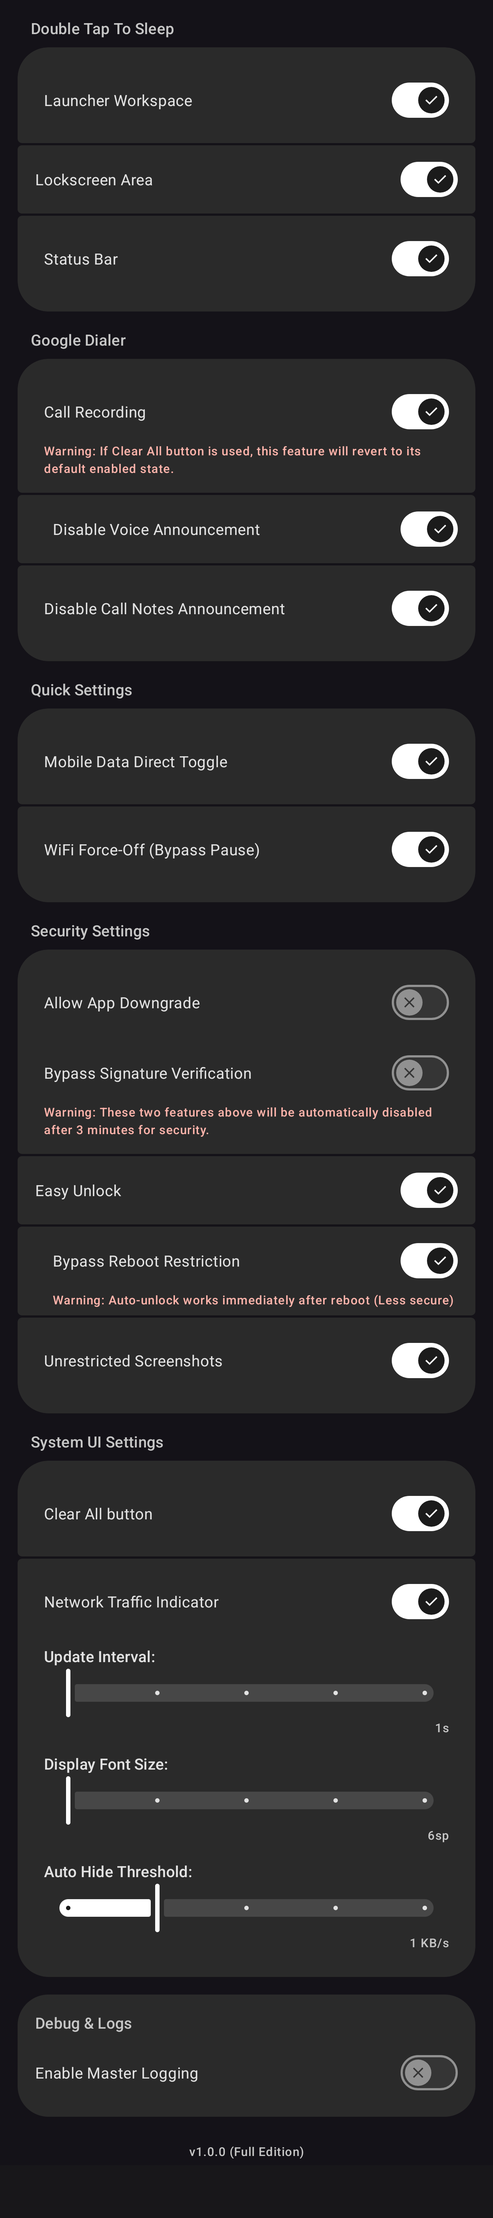
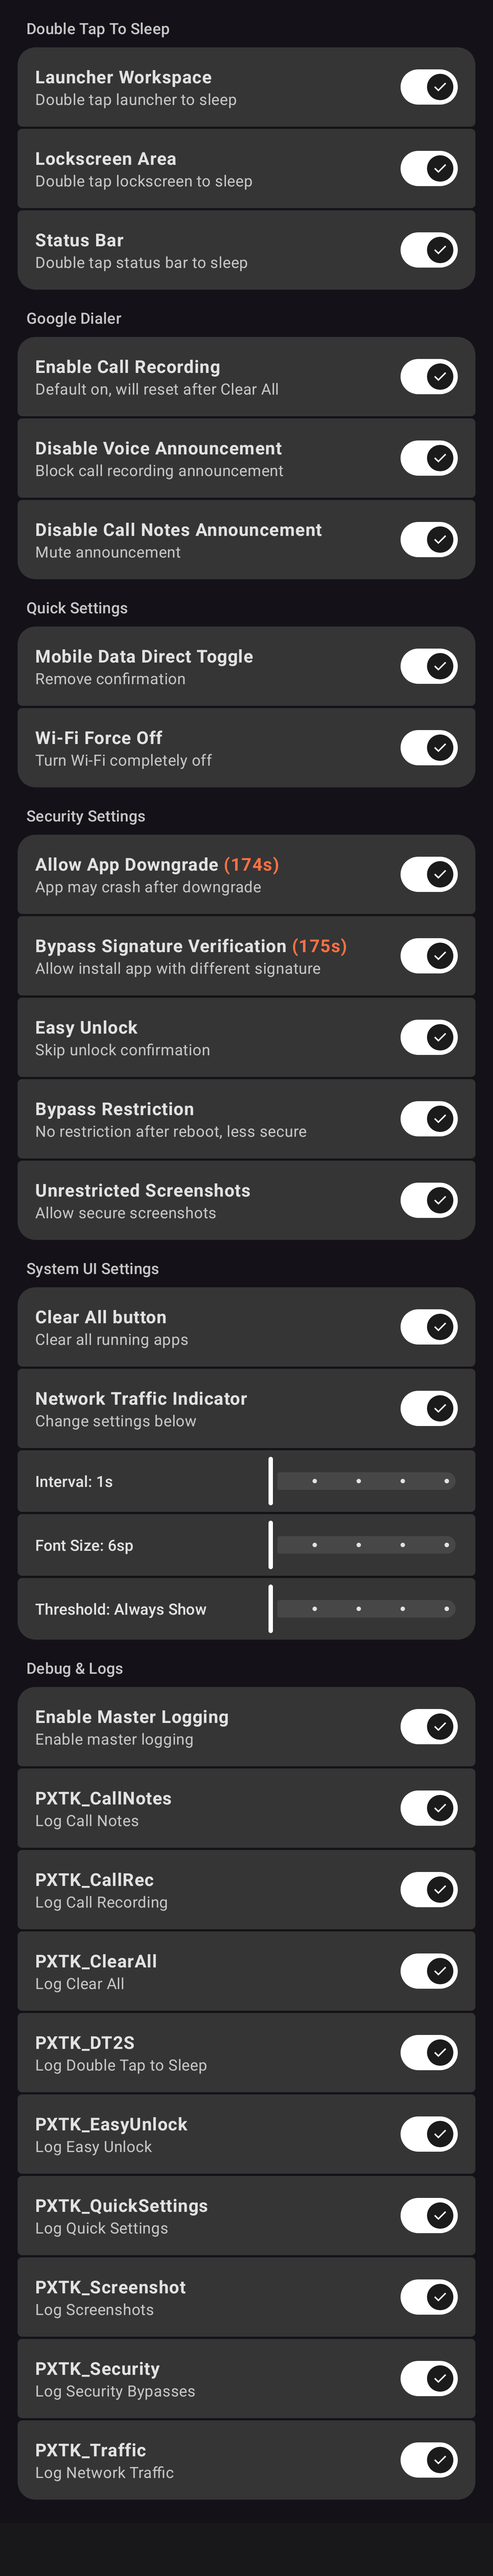
.

Changed region(s): [[0.0312, 0.0, 0.9688, 0.9952], [0.6562, 0.3421, 0.6875, 0.3732]]

diff --git a/README.md b/README.md
@@ -10,9 +10,11 @@ A professional, high-performance Xposed module tailored specifically for Google 
 ## 📸 Preview
 
 <p align="center">
-  <a href="art/screenshot1.png" target="_blank"><img src="art/screenshot1.png" alt="Screenshot Part 1" width="220" /></a>
-  &nbsp;&nbsp;&nbsp;&nbsp;
-  <a href="art/screenshot2.png" target="_blank"><img src="art/screenshot2.png" alt="Screenshot Part 2" width="220" /></a>
+  <a href="art/screenshot1.png" target="_blank"><img src="art/screenshot1.png" alt="Screenshot Part 1" width="200" /></a>
+  &nbsp;&nbsp;
+  <a href="art/screenshot2.png" target="_blank"><img src="art/screenshot2.png" alt="Screenshot Part 2" width="200" /></a>
+  &nbsp;&nbsp;
+  <a href="art/screenshot3.png" target="_blank"><img src="art/screenshot3.png" alt="Screenshot Part 3" width="200" /></a>
 </p>
 <p align="center">
   <em>(Click any image to view full size)</em>
